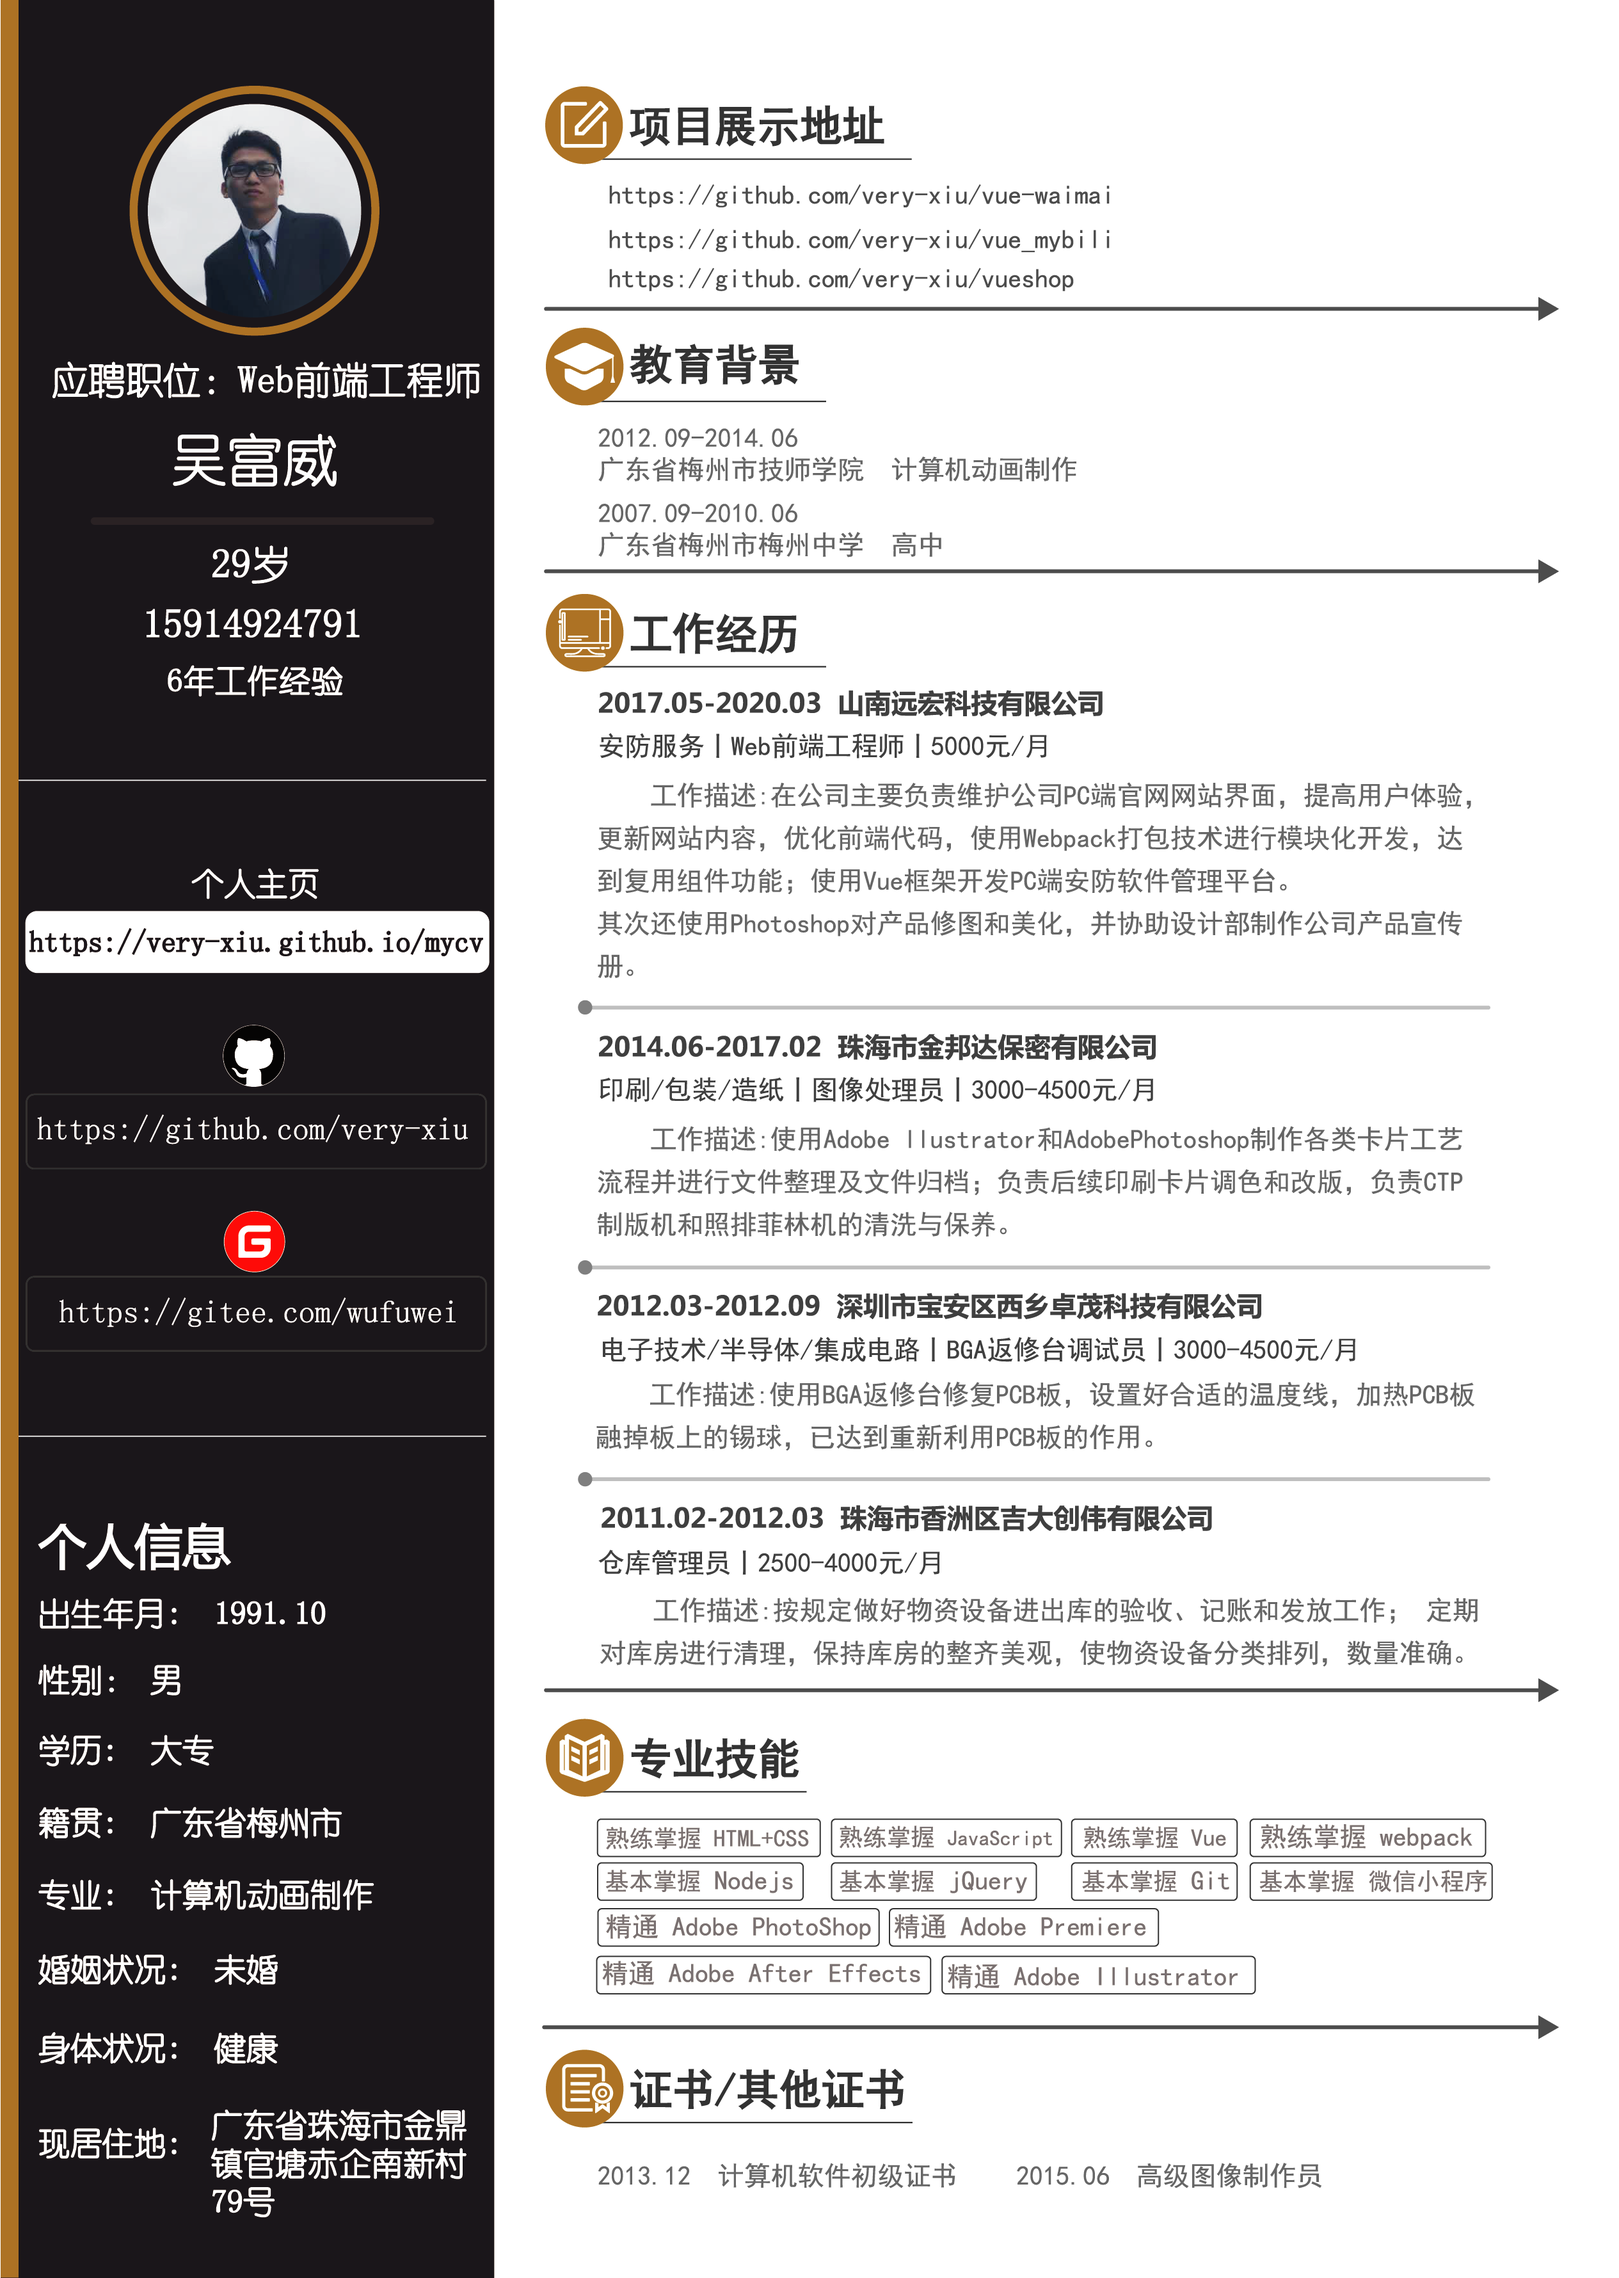
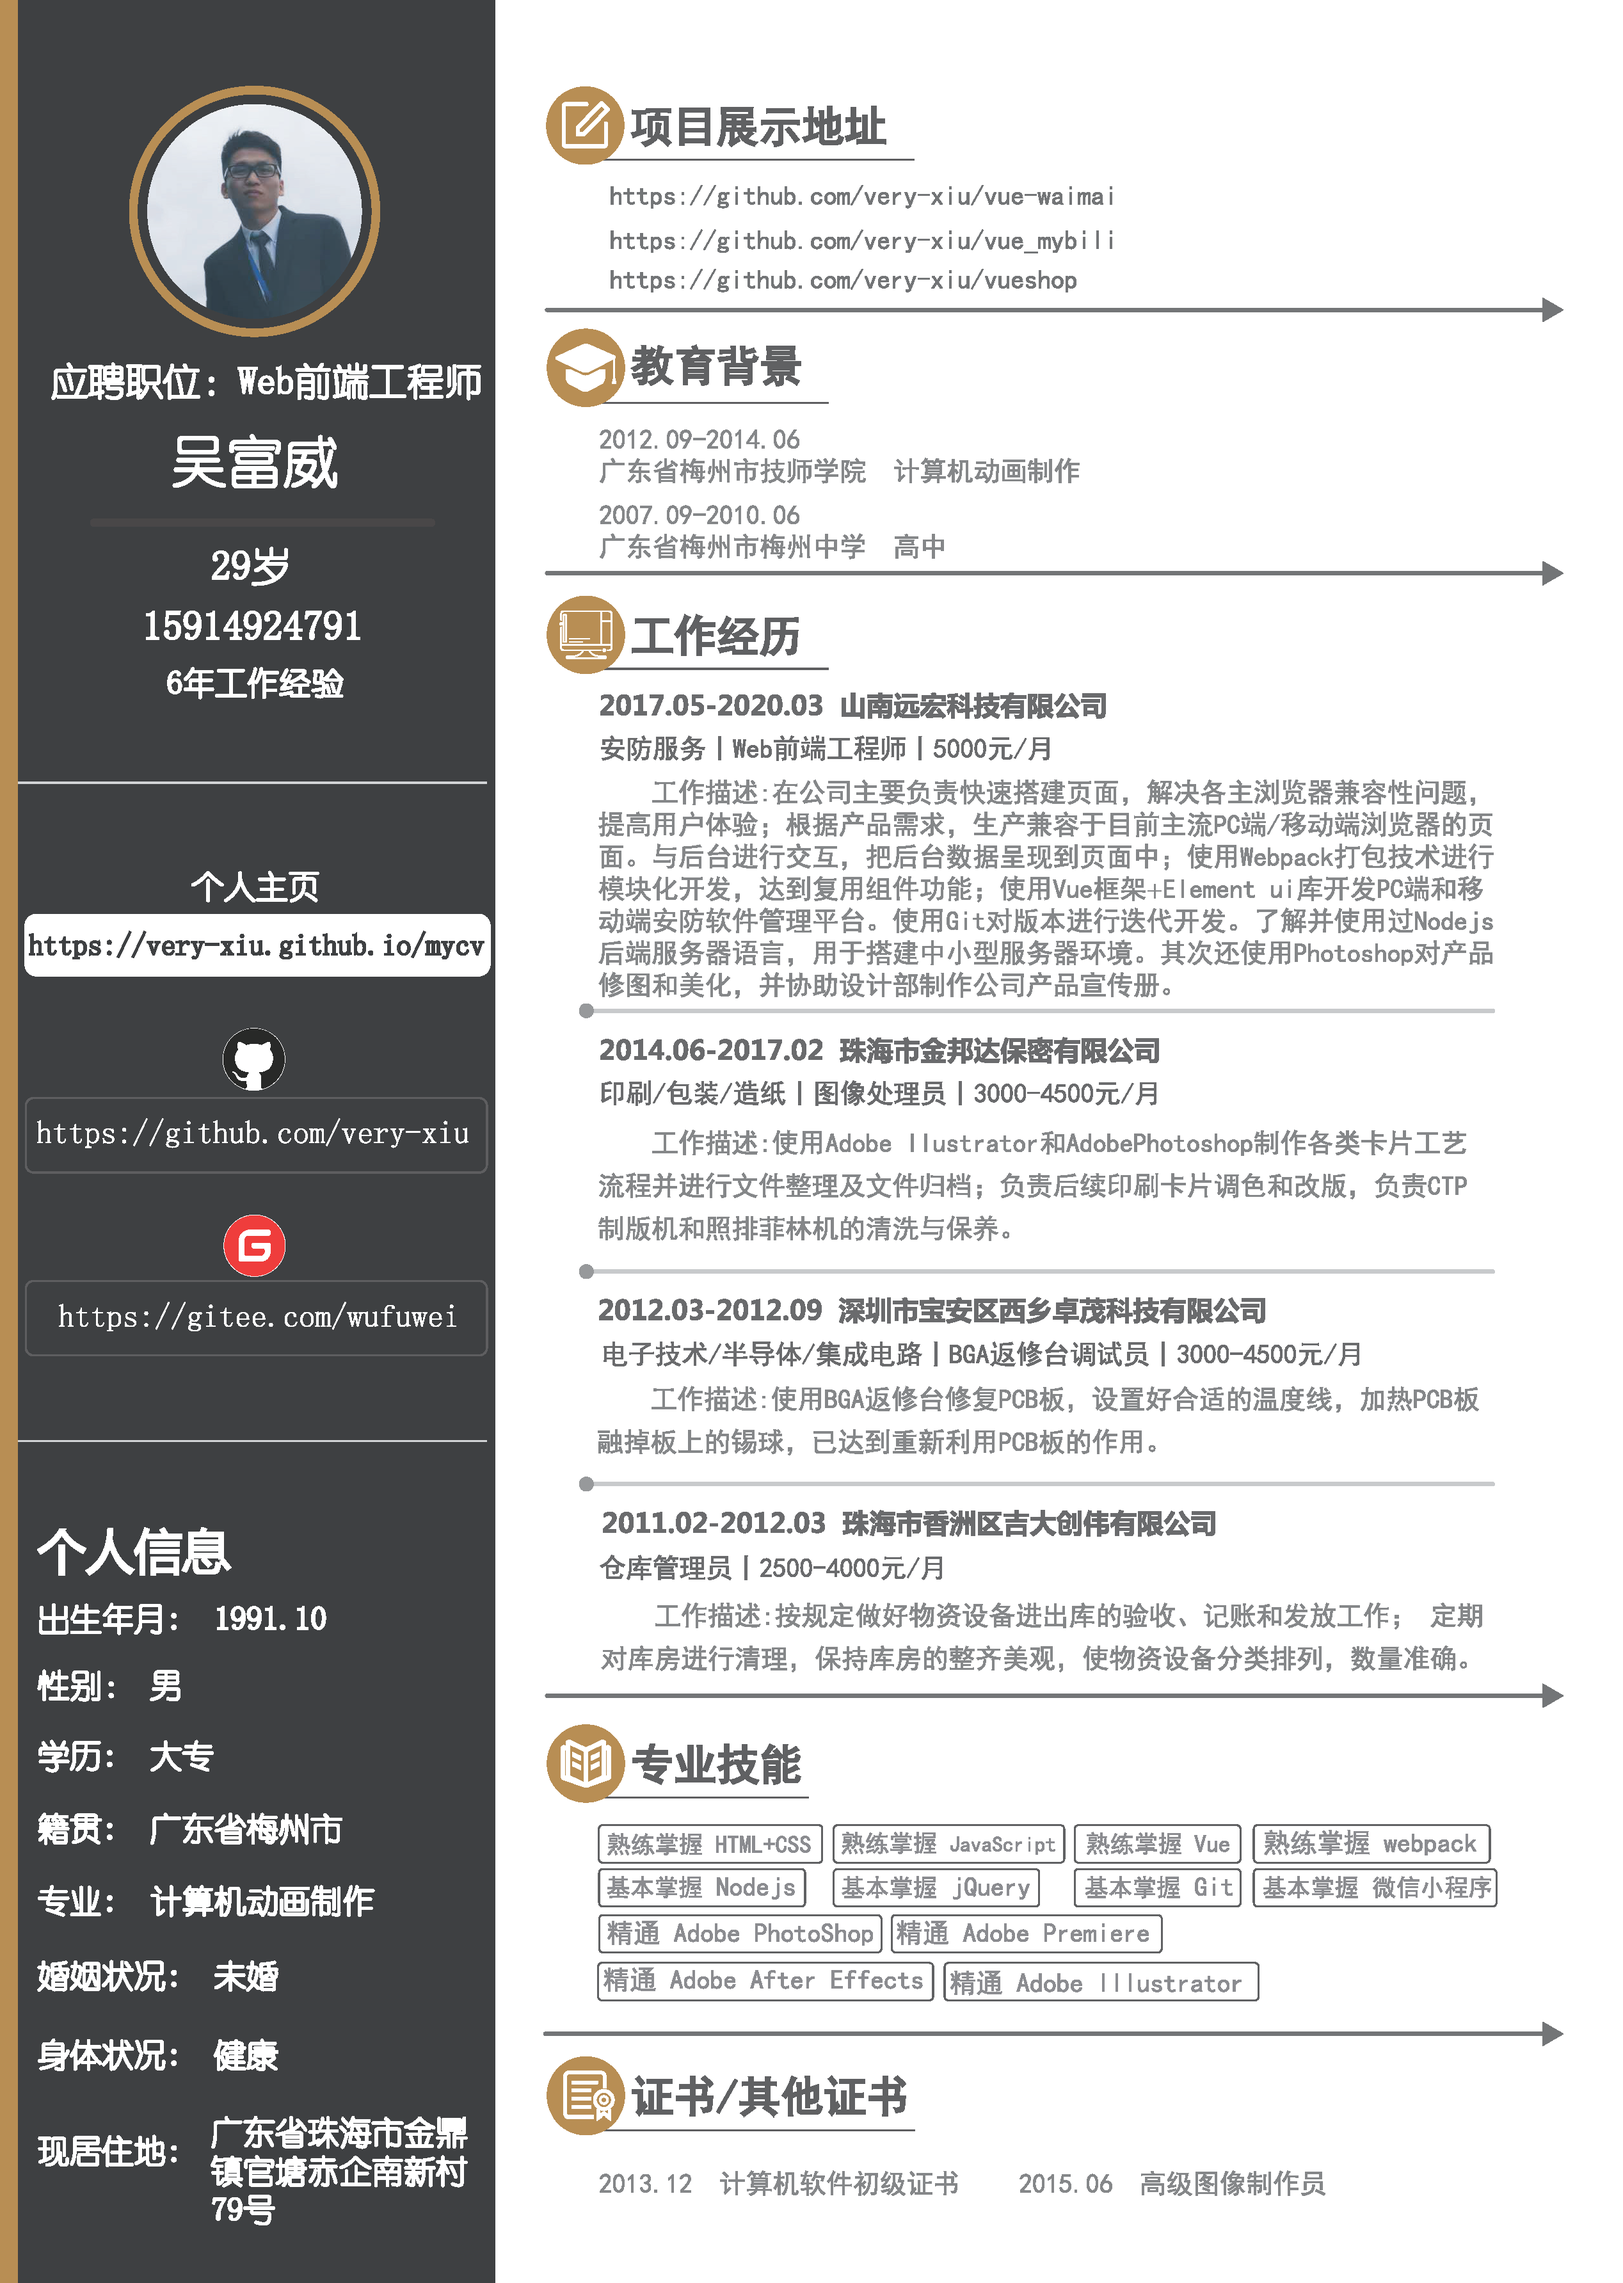
2020-03-17

diff --git a/docs/index.html b/docs/index.html
@@ -82,4 +82,4 @@
         ]
       }
       myLeftChart.setOption(option)
-    });</script><link rel="shortcut icon" href=favicon.ico><link href=./css/styles.css rel=stylesheet></head><body><div id=fullpage><div class="section info"><div class=avatar></div><div class=name-title><div class=name>吴富威</div><div class=title>图像处理专员<a href=javascript:; class=title-company>@远宏科技</a></div></div><ul class=contacts><a class=contact href=https://github.com/very-xiu target=_blank><span class="icon icon-github"></span></a> <a class=contact href=https://gitee.com/wufuwei target=_blank><span class="iconfont iconmayun"></span></a> <a class=contact><span class="icon icon-wechat"><span class=wechat></span></span> </a><a class=contact href=javascript:;><span class="icon icon-envelop"></span></a></ul><a href=./images/cv.png target=_blank class=pdf>自制详情简历.png</a></div><div class="section education"><h1>教育背景</h1><ul><li><time>2012.09 - 2014.06</time><div class=school>广东省梅州市技师学院</div><div class=major><strong>计算机动画制作</strong></div></li><li><time>2007.09 - 2010.06</time><div class=school>广东省梅州市梅州中学</div><div class=major><strong>高中</strong></div></li></ul></div><div class="section experiences"><h1>工作经历</h1><ul class=works><li class=work><div class=target-border><div class=target-dot></div></div><a href=javascript:; class=company>山南远宏科技有限公司</a> <span class=title>Web前端工程师 | 安防服务</span> <time>2017.05 - 2020.03</time><div class=tech-stack>PC端官网维护</div><ul class=description><li>在公司主要负责维护公司PC端官网网站界面，提高用户体验，更新网站内容，优化前端代码，使用Webpack打包技术进行模块化开发，达到复用组件功能；</li><li>使用Vue框架开发PC端安防软件管理平台。</li><li>其次还使用Photoshop对产品修图和美化，并协助设计部制作公司产品宣传册。</li></ul></li><li class=work><div class=target-border><div class=target-dot></div></div><a href=javascript:; class=company>珠海市金邦达保密有限公司</a> <span class=title>图像处理员</span> <time>2014.06 - 2017.02</time><div class=tech-stack>Adobe Photoshop，Adobe Illustrator</div><ul class=description><li>制作各类卡片工艺</li><li>对文件进行整理归档</li><li>负责后续印刷卡片调色和改版</li><li>负责CTP制版机和照排菲林机日常保养与清洗</li></ul></li><li class=work><div class=target-border><div class=target-dot></div></div><a href=javascript:; class=company>深圳市宝安区西乡卓茂科技有限公司</a> <span class=title>BGA返修台调试员</span> <time>2012.03 - 2012.09</time><div class=tech-stack>电子技术，半导体，集成电路</div><ul class=description><li>使用BGA返修台修复PCB板</li><li>设置合适的温度线，加热PCB板并融掉板上锡球、电容等</li><li>达到重新利用PCB板的作用</li></ul></li><li class=work><div class=target-border><div class=target-dot></div></div><a href=javascript:; class=company>珠海市香洲区吉大创伟有限公司</a> <span class=title>仓库管理员</span> <time>2011.02 - 2012.03</time><div class=tech-stack>电子技术，半导体，集成电路</div><ul class=description><li>按规定做好物资设备进出库的验收、记账和发放工作；</li><li>定期对库房进行清理，保持库房的整齐美观，使物资设备分类排列，数量准确。</li></ul></li></ul></div><div class="section skills"><h1>专业技能</h1><div id=left style="width: 750px;height:400px;margin: 100px auto;"></div></div><div class="section gerenyoushi"><h1>个人优势</h1><ul class=works><li class=work><ul class=description><li><strong style="font-size: 24px;">1.</strong>个人沟通能力较强，团队意识强，服从公司领导安排，按时完成领导交代的工作。</li><li><strong style="font-size: 24px;">2.</strong>熟练使用office办公软件、Pr、Ps等软件，擅长摄影摄像，有一定的创作能力。</li><li><strong style="font-size: 24px;">3.</strong>能坚持，确定了正确方向，我就能把所有的力气砸向那个方向，有执行能力。</li></ul></li></ul></div></div><script type=text/javascript src=js/vendor~bundle.js></script><script type=text/javascript src=js/bundle.js></script></body></html>
+    });</script><link rel="shortcut icon" href=favicon.ico><link href=./css/styles.css rel=stylesheet></head><body><div id=fullpage><div class="section info"><div class=avatar></div><div class=name-title><div class=name>吴富威</div><div class=title>图像处理专员<a href=javascript:; class=title-company>@远宏科技</a></div></div><ul class=contacts><a class=contact href=https://github.com/very-xiu target=_blank><span class="icon icon-github"></span></a> <a class=contact href=https://gitee.com/wufuwei target=_blank><span class="iconfont iconmayun"></span></a> <a class=contact><span class="icon icon-wechat"><span class=wechat></span></span> </a><a class=contact href=javascript:;><span class="icon icon-envelop"></span></a></ul><a href=./images/cv.png target=_blank class=pdf>自制详情简历.png</a></div><div class="section education"><h1>教育背景</h1><ul><li><time>2012.09 - 2014.06</time><div class=school>广东省梅州市技师学院</div><div class=major><strong>计算机动画制作</strong></div></li><li><time>2007.09 - 2010.06</time><div class=school>广东省梅州市梅州中学</div><div class=major><strong>高中</strong></div></li></ul></div><div class="section experiences"><h1>工作经历</h1><ul class=works><li class=work><div class=target-border><div class=target-dot></div></div><a href=javascript:; class=company>山南远宏科技有限公司</a> <span class=title>Web前端工程师 | 安防服务</span> <time>2017.05 - 2020.03</time><div class=tech-stack>PC端官网维护</div><ul class=description><li>在公司主要负责快速搭建页面，解决各主浏览器兼容性问题，提高用户体验； 根据产品需求，生产兼容于目前主流PC端/移动端浏览器的页面。 与后台进行交互，把后台数据呈现到页面中；</li><li>使用Webpack打包技术进行模块化开发，达到复用组件功能；</li><li>使用Git对版本进行迭代开发。</li><li>使用Vue框架➕Element ui库开发PC端和移动端安防软件管理平台。</li><li>了解并使用过Nodejs后端服务器语言，用于搭建中小型服务器。</li><li>其次还使用Photoshop对产品修图和美化，并协助设计部制作公司产品宣传册。</li></ul></li><li class=work><div class=target-border><div class=target-dot></div></div><a href=javascript:; class=company>珠海市金邦达保密有限公司</a> <span class=title>图像处理员</span> <time>2014.06 - 2017.02</time><div class=tech-stack>Adobe Photoshop，Adobe Illustrator</div><ul class=description><li>制作各类卡片工艺</li><li>对文件进行整理归档</li><li>负责后续印刷卡片调色和改版</li><li>负责CTP制版机和照排菲林机日常保养与清洗</li></ul></li><li class=work><div class=target-border><div class=target-dot></div></div><a href=javascript:; class=company>深圳市宝安区西乡卓茂科技有限公司</a> <span class=title>BGA返修台调试员</span> <time>2012.03 - 2012.09</time><div class=tech-stack>电子技术，半导体，集成电路</div><ul class=description><li>使用BGA返修台修复PCB板</li><li>设置合适的温度线，加热PCB板并融掉板上锡球、电容等</li><li>达到重新利用PCB板的作用</li></ul></li><li class=work><div class=target-border><div class=target-dot></div></div><a href=javascript:; class=company>珠海市香洲区吉大创伟有限公司</a> <span class=title>仓库管理员</span> <time>2011.02 - 2012.03</time><div class=tech-stack>电子技术，半导体，集成电路</div><ul class=description><li>按规定做好物资设备进出库的验收、记账和发放工作；</li><li>定期对库房进行清理，保持库房的整齐美观，使物资设备分类排列，数量准确。</li></ul></li></ul></div><div class="section skills"><h1>专业技能</h1><div id=left style="width: 750px;height:400px;margin: 100px auto;"></div></div><div class="section gerenyoushi"><h1>个人优势</h1><ul class=works><li class=work><ul class=description><li><strong style="font-size: 24px;">1.</strong>个人沟通能力较强，团队意识强，服从公司领导安排，按时完成领导交代的工作。</li><li><strong style="font-size: 24px;">2.</strong>熟练使用office办公软件、Pr、Ps等软件，擅长摄影摄像，有一定的创作能力。</li><li><strong style="font-size: 24px;">3.</strong>能坚持，确定了正确方向，我就能把所有的力气砸向那个方向，有执行能力。</li></ul></li></ul></div></div><script type=text/javascript src=js/vendor~bundle.js></script><script type=text/javascript src=js/bundle.js></script></body></html>

diff --git a/src/index.html b/src/index.html
@@ -163,10 +163,14 @@
           <time>2017.05 - 2020.03</time>
           <div class="tech-stack">PC端官网维护</div>
           <ul class="description">
-            <li>在公司主要负责维护公司PC端官网网站界面，提高用户体验，更新网站内容，优化前端代码，使用Webpack打包技术进行模块化开发，达到复用组件功能；
+            <li>在公司主要负责快速搭建页面，解决各主浏览器兼容性问题，提高用户体验；
+              根据产品需求，生产兼容于目前主流PC端/移动端浏览器的页面。
+              与后台进行交互，把后台数据呈现到页面中；
             </li>
-            <li>使用Vue框架开发PC端安防软件管理平台。
-            </li>
+            <li>使用Webpack打包技术进行模块化开发，达到复用组件功能；</li>
+            <li>使用Git对版本进行迭代开发。</li>
+            <li>使用Vue框架➕Element ui库开发PC端和移动端安防软件管理平台。</li>
+            <li>了解并使用过Nodejs后端服务器语言，用于搭建中小型服务器。</li>
             <li>其次还使用Photoshop对产品修图和美化，并协助设计部制作公司产品宣传册。</li>
           </ul>
         </li>
